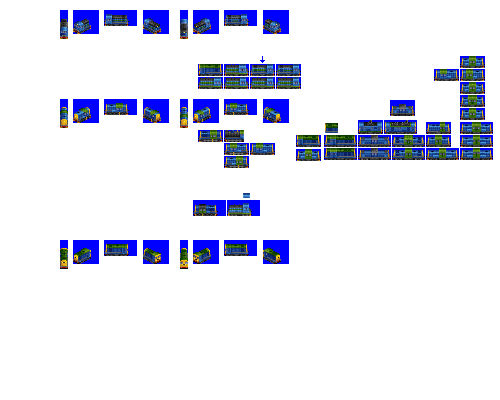
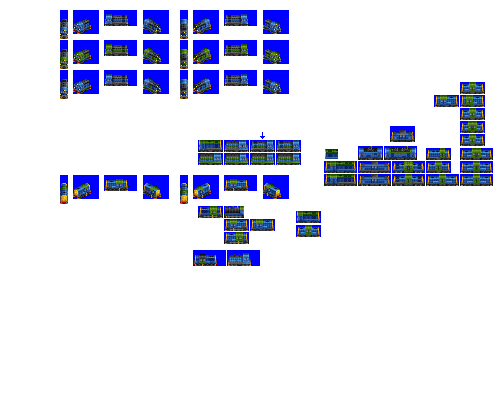
Change: sprites complete for General Endeavour

diff --git a/src/rosters/pony.py b/src/rosters/pony.py
@@ -93,12 +93,12 @@ from vehicles import lemon
 from vehicles import little_bear
 from vehicles import longwater
 from vehicles import lynx
+from vehicles import maelstrom
 from vehicles import mainstay
 from vehicles import maximillian
 from vehicles import magnum_70
 from vehicles import merlion
 from vehicles import merrylegs
-from vehicles import mizzle
 from vehicles import moor_gallop
 from vehicles import mumble
 from vehicles import olympic
@@ -427,6 +427,12 @@ def main():
                     ("COLOUR_RED", "COLOUR_LIGHT_BLUE"),
                 ],
             },
+            "2CC": {
+                "remap_to_cc": None,
+                "docs_image_input_cc": [
+                    ("COLOUR_RED", "COLOUR_WHITE"),
+                ],
+            },
         },
         # empty dicts currently, but could hold remaps, docs image colours etc if needed
         default_pax_liveries=[
@@ -682,7 +688,7 @@ def main():
             blind_smuir,
             mainstay,
             yillen,
-            mizzle,
+            maelstrom,
             # CABBAGE_3 cupla,
             doubletide,
             # CABBAGE_3 doineann,

diff --git a/src/vehicles/general_endeavour.py b/src/vehicles/general_endeavour.py
@@ -16,8 +16,8 @@ def main(roster_id):
         tractive_effort_coefficient=0.375,
         random_reverse=True,
         gen=5,
-        additional_liveries=[],
-        sprites_complete=False,
+        additional_liveries=["2CC", "SWOOSH"],
+        sprites_complete=True,
     )
 
     consist.add_unit(
